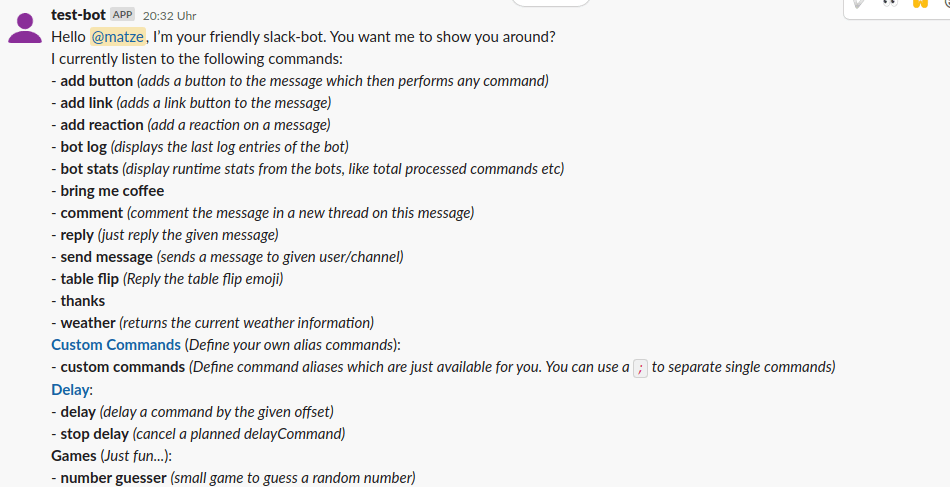
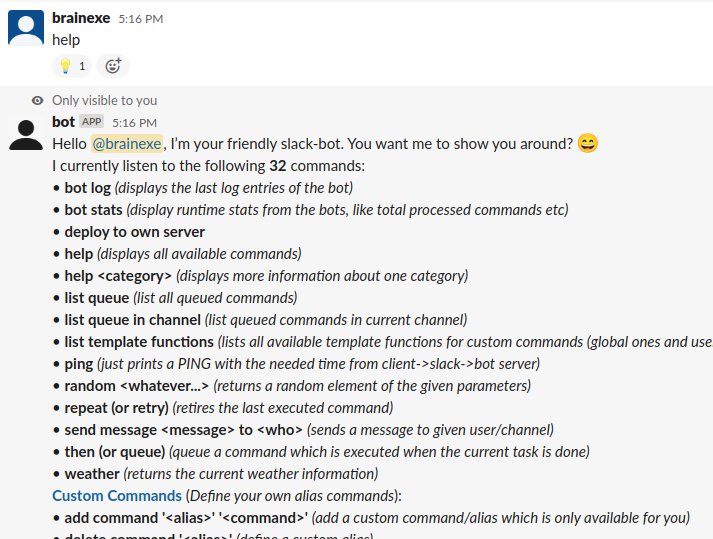
improvement: show "help" command as ephemeral message (only shown to the author) (#220)
* improvement: show "help" command as ephemeral message (only shown to the author)

Changed region(s): [[0.0, 0.0, 1.0, 1.0], [0.9565, 0.0, 1.0, 0.0308]]

diff --git a/bot/tester/tester.go b/bot/tester/tester.go
@@ -68,40 +68,10 @@ func StartFakeSlack(cfg *config.Config, output io.Writer) *slacktest.Server {
 			_, _ = w.Write(bytes)
 		})
 		c.Handle("/chat.postMessage", func(w http.ResponseWriter, r *http.Request) {
-			payload, _ := ioutil.ReadAll(r.Body)
-			query, _ := url.ParseQuery(string(payload))
-			text := query.Get("text")
-
-			// extract text from TextBlock
-			if text == "" && query.Get("blocks") != "" {
-				blockJSON := query.Get("blocks")
-				var blocks []map[string]interface{}
-				_ = json.Unmarshal([]byte(blockJSON), &blocks)
-
-				for _, block := range blocks {
-					text += formatBlock(block) + "\n"
-				}
-			} else if text == "" && query.Get("attachments") != "" {
-				attachmentJSON := query.Get("attachments")
-				var attachments []map[string]interface{}
-				_ = json.Unmarshal([]byte(attachmentJSON), &attachments)
-
-				for _, attachment := range attachments {
-					if txt, ok := attachment["title"].(string); ok {
-						text += txt + "\n"
-					}
-					for _, action := range attachment["actions"].([]interface{}) {
-						text += fmt.Sprintf("Attachment-actions are not supported yet:\n%v\n", action)
-					}
-				}
-			}
-
-			_, _ = fmt.Fprint(output, formatSlackMessage(text)+"\n")
-
-			response := slack.Message{}
-			response.Text = text
-			bytes, _ := json.Marshal(response)
-			_, _ = w.Write(bytes)
+			messageHandler(w, r, output)
+		})
+		c.Handle("/chat.postEphemeral", func(w http.ResponseWriter, r *http.Request) {
+			messageHandler(w, r, output)
 		})
 		c.Handle("/reactions.add", func(w http.ResponseWriter, r *http.Request) {
 			// post the given reaction as unicode character in the terminal
@@ -143,6 +113,7 @@ func StartFakeSlack(cfg *config.Config, output io.Writer) *slacktest.Server {
 	return fakeSlack
 }
 
+// HandleMessage is used in the CLI context to process the given message test for the "cli" user
 func HandleMessage(text string) {
 	message := msg.Message{}
 	message.Text = text
@@ -150,6 +121,44 @@ func HandleMessage(text string) {
 	message.User = User
 
 	client.HandleMessageWithDoneHandler(message).Wait()
+}
+
+// kinda dirty grown function to format a /chat.postMessage /chat.postEphemeral message on the command like...somehow
+func messageHandler(w http.ResponseWriter, r *http.Request, output io.Writer) {
+	payload, _ := ioutil.ReadAll(r.Body)
+	query, _ := url.ParseQuery(string(payload))
+	text := query.Get("text")
+
+	// extract text from TextBlock
+	if text == "" && query.Get("blocks") != "" {
+		blockJSON := query.Get("blocks")
+		var blocks []map[string]interface{}
+		_ = json.Unmarshal([]byte(blockJSON), &blocks)
+
+		for _, block := range blocks {
+			text += formatBlock(block) + "\n"
+		}
+	} else if text == "" && query.Get("attachments") != "" {
+		attachmentJSON := query.Get("attachments")
+		var attachments []map[string]interface{}
+		_ = json.Unmarshal([]byte(attachmentJSON), &attachments)
+
+		for _, attachment := range attachments {
+			if txt, ok := attachment["title"].(string); ok {
+				text += txt + "\n"
+			}
+			for _, action := range attachment["actions"].([]interface{}) {
+				text += fmt.Sprintf("Attachment-actions are not supported yet:\n%v\n", action)
+			}
+		}
+	}
+
+	_, _ = fmt.Fprint(output, formatSlackMessage(text)+"\n")
+
+	response := slack.Message{}
+	response.Text = text
+	bytes, _ := json.Marshal(response)
+	_, _ = w.Write(bytes)
 }
 
 func formatBlock(block map[string]interface{}) string {

diff --git a/command/help.go b/command/help.go
@@ -50,10 +50,12 @@ func (t *helpCommand) GetHelp() []bot.Help {
 func (t *helpCommand) showAll(match matcher.Result, message msg.Message) {
 	t.once.Do(t.prebuildHelp)
 
+	t.AddReaction("💡", message)
+
 	var text string
 
 	text += "Hello <@" + message.User + ">, I’m your friendly slack-bot. You want me to show you around? :smile: \n"
-	text += "I currently listen to the following commands:\n"
+	text += fmt.Sprintf("I currently listen to the following *%d* commands:\n", len(t.sortedCommands))
 
 	lastCategory := bot.Category{}
 	for _, commandHelp := range t.sortedCommands {
@@ -74,8 +76,7 @@ func (t *helpCommand) showAll(match matcher.Result, message msg.Message) {
 		text += "\n"
 	}
 
-	text += "With *help <command>* I can provide you with more details!"
-	t.SendMessage(message, text)
+	t.SendEphemeralMessage(message, text)
 }
 
 func (t *helpCommand) printCategoryHeader(commandHelp bot.Help) (text string) {
@@ -94,7 +95,7 @@ func (t *helpCommand) printCategoryHeader(commandHelp bot.Help) (text string) {
 	return
 }
 
-// ShowSingleCommand prints details of a specific command
+// prints details of a specific command
 func (t *helpCommand) showSingleCommand(match matcher.Result, message msg.Message) {
 	// compile help only once
 	t.once.Do(t.prebuildHelp)
@@ -109,7 +110,7 @@ func (t *helpCommand) showSingleCommand(match matcher.Result, message msg.Messag
 		}
 	}
 	if matchedCommand.Command == "" {
-		t.SendMessage(message, fmt.Sprintf("Invalid command: `%s`", command))
+		t.SendEphemeralMessage(message, fmt.Sprintf("Invalid command: `%s`", command))
 		return
 	}
 
@@ -125,7 +126,7 @@ func (t *helpCommand) showSingleCommand(match matcher.Result, message msg.Messag
 		}
 	}
 
-	t.SendMessage(message, text)
+	t.SendEphemeralMessage(message, text)
 }
 
 // generate the list of all commands only once and sort them by category/name

diff --git a/command/help_test.go b/command/help_test.go
@@ -36,7 +36,8 @@ func TestHelp(t *testing.T) {
 		message := msg.Message{}
 		message.Text = "help"
 
-		slackClient.On("SendMessage", message, mock.AnythingOfType("string")).Return("")
+		mocks.AssertReaction(slackClient, "💡", message)
+		slackClient.On("SendEphemeralMessage", message, mock.AnythingOfType("string"))
 		actual := help.Run(message)
 		assert.True(t, actual)
 	})
@@ -45,7 +46,7 @@ func TestHelp(t *testing.T) {
 		message := msg.Message{}
 		message.Text = "help reply"
 
-		mocks.AssertSlackMessage(slackClient, message, "*reply <text>*:\njust reply the given message\n*Some examples:*\n - reply Hello, how are you?\n")
+		slackClient.On("SendEphemeralMessage", message, "*reply <text>*:\njust reply the given message\n*Some examples:*\n - reply Hello, how are you?\n")
 		actual := help.Run(message)
 		assert.True(t, actual)
 	})
@@ -54,7 +55,7 @@ func TestHelp(t *testing.T) {
 		message := msg.Message{}
 		message.Text = "help sdsadasdasd"
 
-		mocks.AssertSlackMessage(slackClient, message, "Invalid command: `sdsadasdasd`")
+		slackClient.On("SendEphemeralMessage", message, "Invalid command: `sdsadasdasd`")
 
 		actual := help.Run(message)
 		assert.True(t, actual)

diff --git a/command/reply.go b/command/reply.go
@@ -20,6 +20,7 @@ type replyCommand struct {
 func (c *replyCommand) GetMatcher() matcher.Matcher {
 	return matcher.NewGroupMatcher(
 		matcher.NewPrefixMatcher("reply", c.reply),
+		matcher.NewPrefixMatcher("hidden reply", c.hiddenReply),
 		matcher.NewPrefixMatcher("comment", c.commentInNewThread),
 	)
 }
@@ -31,6 +32,15 @@ func (c *replyCommand) reply(match matcher.Result, message msg.Message) {
 	}
 
 	c.SendMessage(message, text)
+}
+
+func (c *replyCommand) hiddenReply(match matcher.Result, message msg.Message) {
+	text := match.GetString(util.FullMatch)
+	if text == "" {
+		return
+	}
+
+	c.SendEphemeralMessage(message, text)
 }
 
 // comment in (new) thread
@@ -51,6 +61,14 @@ func (c *replyCommand) GetHelp() []bot.Help {
 			Category:    helperCategory,
 			Examples: []string{
 				"reply Hello, how are you?",
+			},
+		},
+		{
+			Command:     "hidden reply <text>",
+			Description: "reply the given message. The message is ONLY visible to the author.",
+			Category:    helperCategory,
+			Examples: []string{
+				"hidden reply Psssst, It's secret!",
 			},
 		},
 		{

diff --git a/mocks/SlackClient.go b/mocks/SlackClient.go
@@ -112,6 +112,18 @@ func (_m *SlackClient) SendBlockMessage(ref msg.Ref, blocks []slack.Block, optio
 	return r0
 }
 
+// SendEphemeralMessage provides a mock function with given fields: ref, text, options
+func (_m *SlackClient) SendEphemeralMessage(ref msg.Ref, text string, options ...slack.MsgOption) {
+	_va := make([]interface{}, len(options))
+	for _i := range options {
+		_va[_i] = options[_i]
+	}
+	var _ca []interface{}
+	_ca = append(_ca, ref, text)
+	_ca = append(_ca, _va...)
+	_m.Called(_ca...)
+}
+
 // SendMessage provides a mock function with given fields: ref, text, options
 func (_m *SlackClient) SendMessage(ref msg.Ref, text string, options ...slack.MsgOption) string {
 	_va := make([]interface{}, len(options))

diff --git a/bot/command.go b/bot/command.go
@@ -79,19 +79,21 @@ func (c *Commands) AddCommand(commands ...Command) {
 			continue
 		}
 
-		// register template function defined in commands
-		if provider, ok := command.(util.TemplateFunctionProvider); ok {
-			util.RegisterFunctions(provider.GetTemplateFunction())
-		}
-
 		if condition, ok := command.(Conditional); ok {
 			if !condition.IsEnabled() {
 				// command is disabled!
 				continue
 			}
 		}
+
+		// register template function defined in commands
+		if provider, ok := command.(util.TemplateFunctionProvider); ok {
+			util.RegisterFunctions(provider.GetTemplateFunction())
+		}
+
 		c.commands = append(c.commands, command)
 	}
+
 	c.compiled = false
 }
 

diff --git a/command/reply_test.go b/command/reply_test.go
@@ -60,6 +60,23 @@ func TestReply(t *testing.T) {
 		assert.True(t, actual)
 	})
 
+	t.Run("simple hidden reply without text", func(t *testing.T) {
+		message := msg.Message{}
+		message.Text = "hidden reply"
+
+		actual := command.Run(message)
+		assert.True(t, actual)
+	})
+
+	t.Run("simple hidden reply", func(t *testing.T) {
+		message := msg.Message{}
+		message.Text = "hidden reply it's secret"
+
+		slackClient.On("SendEphemeralMessage", message, "it's secret").Once()
+		actual := command.Run(message)
+		assert.True(t, actual)
+	})
+
 	t.Run("comment without text", func(t *testing.T) {
 		message := msg.Message{}
 		message.Text = "comment"

diff --git a/client/slack.go b/client/slack.go
@@ -95,6 +95,10 @@ type SlackClient interface {
 	ReplyError(ref msg.Ref, err error)
 	// SendMessage is the extended version of Reply and accepts any slack.MsgOption
 	SendMessage(ref msg.Ref, text string, options ...slack.MsgOption) string
+
+	// SendEphemeralMessage sends a message just visible to the current user
+	SendEphemeralMessage(ref msg.Ref, text string, options ...slack.MsgOption)
+
 	// SendBlockMessage will send Slack Blocks/Sections to the target
 	SendBlockMessage(ref msg.Ref, blocks []slack.Block, options ...slack.MsgOption) string
 

diff --git a/command/jenkins/commands.go b/command/jenkins/commands.go
@@ -12,7 +12,7 @@ import (
 var category = bot.Category{
 	Name:        "Jenkins",
 	Description: "Interact with Jenkins jobs: Trigger builds, check job status or watch builds",
-	HelpURL:     "https://github.com/innogames/slack-bot#jenkins",
+	HelpURL:     "https://github.com/innogames/slack-bot#jenkins-optional",
 }
 
 // base command to access Slack+Jenkins directly

diff --git a/command/jira/commands.go b/command/jira/commands.go
@@ -33,5 +33,5 @@ func GetCommands(cfg *config.Jira, slackClient client.SlackClient) bot.Commands 
 var category = bot.Category{
 	Name:        "Jira",
 	Description: "Search/Watch Jira tickets",
-	HelpURL:     "https://github.com/innogames/slack-bot#jira",
+	HelpURL:     "https://github.com/innogames/slack-bot#jira-optional",
 }

diff --git a/readme.md b/readme.md
@@ -121,7 +121,7 @@ With `help *command*` you'll get a short description and some examples for a sin
 
 ![Screenshot](./docs/help.png)
 
-## Jenkins
+## Jenkins (optional)
 The bot is able to start and monitor jenkins job on a simple but powerful way.
 
 By default the commands are not available and not visible in the "help", till the "jenkins.host" is defined in the config file.
@@ -221,7 +221,7 @@ Example following scenario: you have a build job (which might take some minutes)
 To see all running background commands (like Jenkins jobs or PR watcher) use this command:
 - `list queue`
 
-## Jira
+## Jira (optional)
 The bot is able to query information from Jira, either from a single ticket, or a whole list of tickets.
 
 By default the commands are not available and not visible in the "help", till the "jira.host" is defined in the config file.
@@ -308,7 +308,7 @@ The questions are from different categories and difficult levels and are either 
 
 ![Quiz game](./docs/quiz.png)
 
-## Weather command
+## Weather command (optional)
 It's possible to setup [OpenWeatherMap](https://openweathermap.org/) to get information about the current weather at your location.
 
 ![Screenshot](./docs/weather.png)
